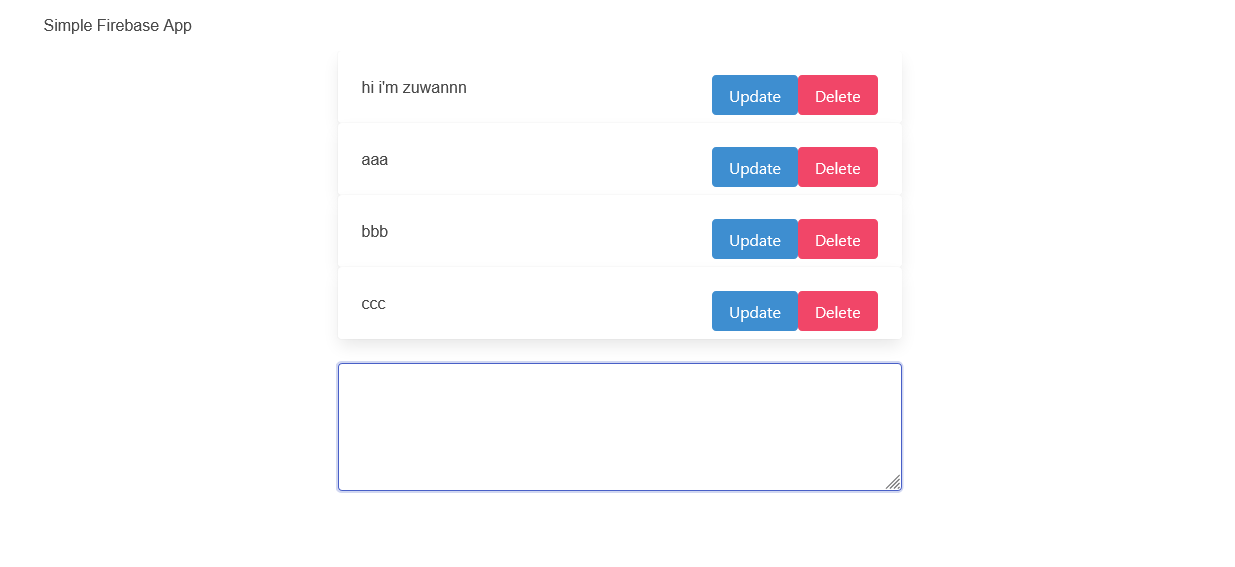
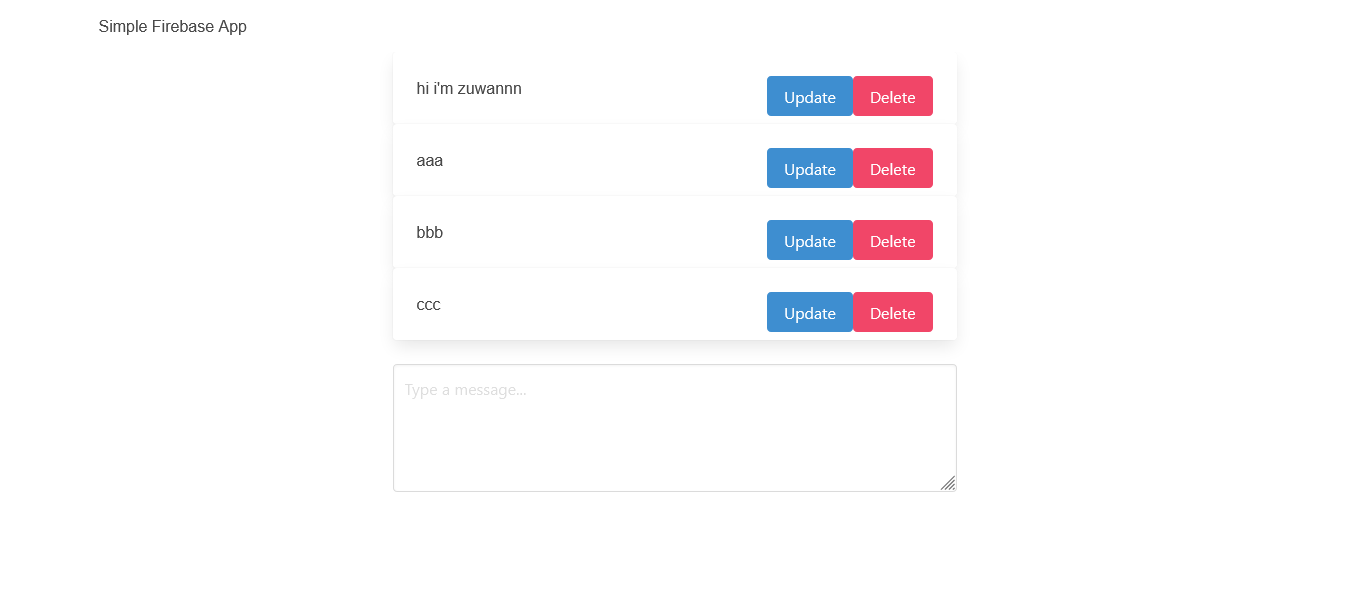
update

diff --git a/README.md b/README.md
@@ -5,3 +5,7 @@ Blog Reference : [ทำ React + Firebase Realtime Database กัน by Chalach
 Props , State , setState : [ทุกอย่างที่เป็น Props , State , setState by Pakawat Mange](https://medium.com/@pakawatmange/%E0%B8%97%E0%B8%B8%E0%B8%81%E0%B8%AD%E0%B8%A2%E0%B9%88%E0%B8%B2%E0%B8%87%E0%B8%97%E0%B8%B5%E0%B9%88%E0%B9%80%E0%B8%9B%E0%B9%87%E0%B8%99-props-state-setstate-44819fbc5924)
 
 Demo Here : https://fir-7c303.firebaseapp.com/
+
+### Screenshot
+![](/screenshot/firebase-realtime.png)
+![](/screenshot/firebase-realtime2.png)
